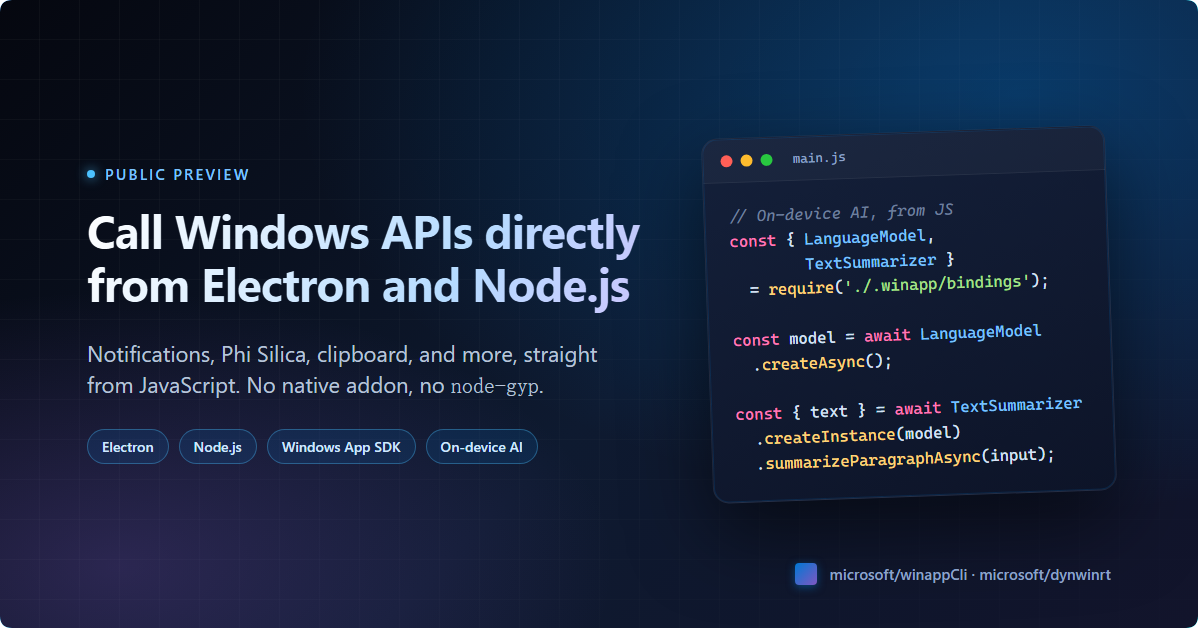
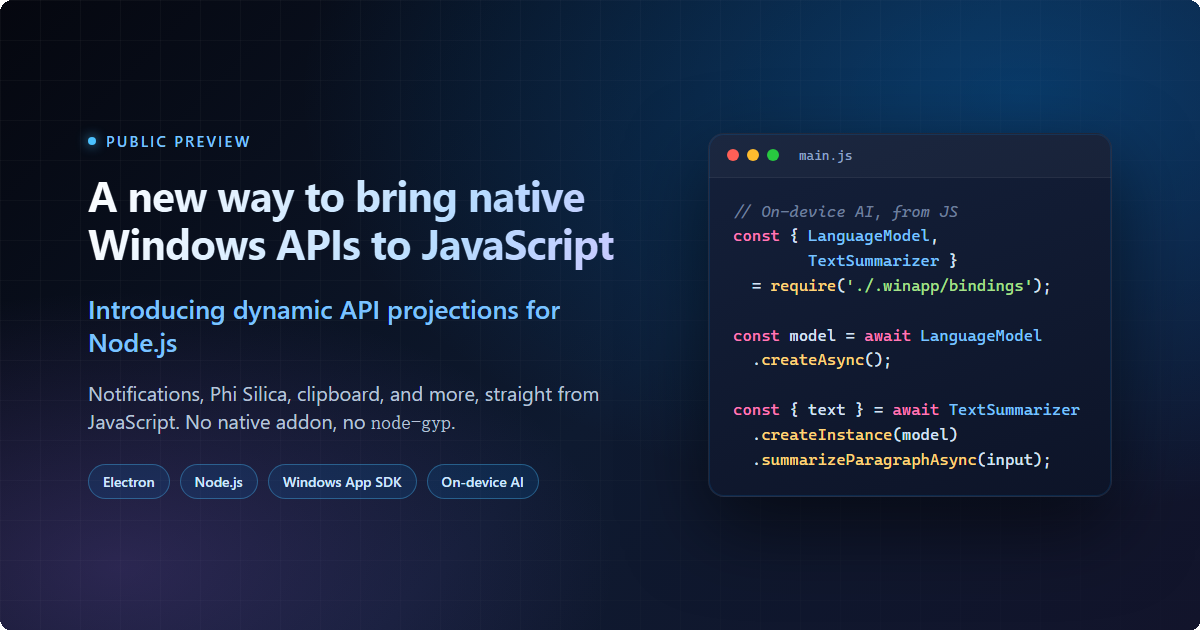
fix comments

diff --git a/src/winapp-npm/src/winapp-commands.ts b/src/winapp-npm/src/winapp-commands.ts
@@ -2,7 +2,7 @@
  * AUTO-GENERATED — DO NOT EDIT
  *
  * Regenerate with:  npm run generate-commands
- * Source schema version: 0.3.3
+ * Source schema version: 0.4.1
  *
  * Programmatic wrappers for all winapp CLI commands.
  * Each function builds the CLI arguments, invokes the native CLI,
@@ -85,7 +85,7 @@ export interface CertGenerateOptions extends CommonOptions {
   output?: string;
   /** Password for the generated PFX file */
   password?: string;
-  /** Publisher name for the generated certificate. If not specified, will be inferred from manifest. */
+  /** Publisher distinguished name (DN) for the generated certificate (e.g., CN=MyCompany or OU=Team, O=Corp, C=US). If not specified, will be inferred from manifest. Bare names are auto-wrapped as CN=<name>. */
   publisher?: string;
   /** Number of days the certificate is valid */
   validDays?: number;
@@ -311,7 +311,7 @@ export interface ManifestGenerateOptions extends CommonOptions {
   logoPath?: string;
   /** Package name (default: folder name) */
   packageName?: string;
-  /** Publisher CN (default: CN=<current user>) */
+  /** Publisher distinguished name (DN) (default: CN=<current user>). Accepts any valid X.500 DN; bare names are auto-wrapped as CN=<name>. */
   publisherName?: string;
   /** Manifest template type: 'packaged' (full MSIX app, default) or 'sparse' (desktop app with package identity for Windows APIs) */
   template?: ManifestTemplates;
@@ -383,7 +383,7 @@ export interface PackageOptions extends CommonOptions {
   name?: string;
   /** Output file name for the generated package (.msix) or bundle (.msixbundle). Defaults to <name>_<version>_<arch>.msix for single packages, or <name>_<version>_<arch1>_<arch2>.msixbundle for bundles. */
   output?: string;
-  /** Publisher name for certificate generation */
+  /** Publisher distinguished name (DN) for certificate generation (e.g., CN=MyCompany). Bare names are auto-wrapped as CN=<name>. */
   publisher?: string;
   /** Bundle Windows App SDK runtime for self-contained deployment */
   selfContained?: boolean;
@@ -592,6 +592,45 @@ export async function uiClick(options: UiClickOptions = {}): Promise<WinappResul
 }
 
 // ---------------------------------------------------------------------------
+// ui drag
+// ---------------------------------------------------------------------------
+
+export interface UiDragOptions extends CommonOptions {
+  /** Start point — an element selector (drags from its center) or app coordinates x,y as reported by 'ui inspect' (e.g. pn-list-d736 or 100,200). */
+  from?: string;
+  /** End point — an element selector (drops at its center) or app coordinates x,y as reported by 'ui inspect' (e.g. pn-target-d746 or 300,400). */
+  to?: string;
+  /** Target app (process name, window title, or PID). Lists windows if ambiguous. */
+  app?: string;
+  /** Milliseconds to dwell at the destination after moving, before releasing (default: 0). Lets drop targets / merge overlays that arm from a sustained hover latch before release. */
+  dwellMs?: number;
+  /** Milliseconds to hold the button down at the start before moving (default: 0). With <from> == <to> (no movement) this performs a press-and-hold / long-press gesture. */
+  holdMs?: number;
+  /** Format output as JSON */
+  json?: boolean;
+  /** Drag with the right mouse button instead of the left button */
+  right?: boolean;
+  /** Target window by HWND (stable handle from list output). Takes precedence over --app. */
+  window?: number;
+}
+
+/**
+ * Press the mouse button at one point, move to another, then release. 'drag <from> <to>', where <from>/<to> are each an element selector (uses the element's center) or app-relative x,y coordinates as reported by 'ui inspect'. Useful for reorder/resize/slider gestures and drag-and-drop. Use --right for a right-button drag, --hold-ms for press-and-hold/long-press, and --dwell-ms to settle on a drop target before releasing.
+ */
+export async function uiDrag(options: UiDragOptions = {}): Promise<WinappResult> {
+  const args: string[] = ['ui', 'drag'];
+  if (options.from) args.push(options.from);
+  if (options.to) args.push(options.to);
+  if (options.app) args.push('--app', options.app);
+  if (options.dwellMs !== undefined) args.push('--dwell-ms', options.dwellMs.toString());
+  if (options.holdMs !== undefined) args.push('--hold-ms', options.holdMs.toString());
+  if (options.json) args.push('--json');
+  if (options.right) args.push('--right');
+  if (options.window !== undefined) args.push('--window', options.window.toString());
+  return execCommand(args, options);
+}
+
+// ---------------------------------------------------------------------------
 // ui focus
 // ---------------------------------------------------------------------------
 
@@ -694,6 +733,36 @@ export async function uiGetValue(options: UiGetValueOptions = {}): Promise<Winap
   const args: string[] = ['ui', 'get-value'];
   if (options.selector) args.push(options.selector);
   if (options.app) args.push('--app', options.app);
+  if (options.json) args.push('--json');
+  if (options.window !== undefined) args.push('--window', options.window.toString());
+  return execCommand(args, options);
+}
+
+// ---------------------------------------------------------------------------
+// ui hover
+// ---------------------------------------------------------------------------
+
+export interface UiHoverOptions extends CommonOptions {
+  /** Semantic slug (e.g., btn-minimize-d1a0) or text to search by name/automationId */
+  selector?: string;
+  /** Target app (process name, window title, or PID). Lists windows if ambiguous. */
+  app?: string;
+  /** Time in milliseconds to wait after hovering for hover effects to appear (default: 800) */
+  dwellTime?: number;
+  /** Format output as JSON */
+  json?: boolean;
+  /** Target window by HWND (stable handle from list output). Takes precedence over --app. */
+  window?: number;
+}
+
+/**
+ * Move the mouse to an element's center to trigger hover effects (tooltips, flyouts, visual states). Uses SendInput for realistic mouse movement and waits for a configurable dwell time.
+ */
+export async function uiHover(options: UiHoverOptions = {}): Promise<WinappResult> {
+  const args: string[] = ['ui', 'hover'];
+  if (options.selector) args.push(options.selector);
+  if (options.app) args.push('--app', options.app);
+  if (options.dwellTime !== undefined) args.push('--dwell-time', options.dwellTime.toString());
   if (options.json) args.push('--json');
   if (options.window !== undefined) args.push('--window', options.window.toString());
   return execCommand(args, options);
@@ -843,12 +912,14 @@ export interface UiScrollOptions extends CommonOptions {
   json?: boolean;
   /** Scroll to position: top, bottom */
   to?: string;
+  /** Rotate the mouse wheel over the element by this many notches (1 = one notch up, -1 = one notch down). Synthesizes real wheel input instead of using ScrollPattern. */
+  wheel?: number;
   /** Target window by HWND (stable handle from list output). Takes precedence over --app. */
   window?: number;
 }
 
 /**
- * Scroll a container element using ScrollPattern. Use --direction to scroll incrementally, or --to to jump to top/bottom.
+ * Scroll a container element using ScrollPattern. Use --direction to scroll incrementally, --to to jump to top/bottom, or --wheel to synthesize mouse-wheel input.
  */
 export async function uiScroll(options: UiScrollOptions = {}): Promise<WinappResult> {
   const args: string[] = ['ui', 'scroll'];
@@ -857,6 +928,7 @@ export async function uiScroll(options: UiScrollOptions = {}): Promise<WinappRes
   if (options.direction) args.push('--direction', options.direction);
   if (options.json) args.push('--json');
   if (options.to) args.push('--to', options.to);
+  if (options.wheel !== undefined) args.push('--wheel', options.wheel.toString());
   if (options.window !== undefined) args.push('--window', options.window.toString());
   return execCommand(args, options);
 }
@@ -914,6 +986,42 @@ export async function uiSearch(options: UiSearchOptions = {}): Promise<WinappRes
   if (options.app) args.push('--app', options.app);
   if (options.json) args.push('--json');
   if (options.max !== undefined) args.push('--max', options.max.toString());
+  if (options.window !== undefined) args.push('--window', options.window.toString());
+  return execCommand(args, options);
+}
+
+// ---------------------------------------------------------------------------
+// ui send-keys
+// ---------------------------------------------------------------------------
+
+export interface UiSendKeysOptions extends CommonOptions {
+  /** Keys to send. Whitespace-separated tokens: named keys (down, enter, tab, esc, f5), modifier combos (ctrl+shift+t, alt+f4), raw virtual keys (vk=0x42), or literal text (hello). Use text=<literal> to type a single value verbatim when it would otherwise be read as a key name or combo (text=enter types "enter"; text=ctrl+a types "ctrl+a"); backslash escapes \s \t \n \r \\ are supported (text=a\s\sb types "a b"). To type the whole argument literally without escaping each token, pass --verbatim instead. Quote multi-token strings, e.g. "ctrl+a delete". */
+  keys?: string;
+  /** Target app (process name, window title, or PID). Lists windows if ambiguous. */
+  app?: string;
+  /** Format output as JSON */
+  json?: boolean;
+  /** Optional selector (slug or text) to focus before sending keys. */
+  target?: string;
+  /** Type the entire keys argument as literal text — no named-key, combo, or vk= interpretation, and exact whitespace preserved. The whole-argument form of the per-token text= escape: --verbatim "down down enter" types the words instead of pressing Down, Down, Enter. */
+  verbatim?: boolean;
+  /** Transport: post-message (default, HWND-targeted, bypasses UIPI; typed text raises TextChanged but not a per-character KeyDown) or send-input (OS-wide; typed text raises a real per-character KeyDown + TextChanged). Named keys and combos raise KeyDown on both, but keyboard accelerators/shortcuts (KeyboardAccelerator, e.g. ctrl+t) only fire via send-input. */
+  via?: string;
+  /** Target window by HWND (stable handle from list output). Takes precedence over --app. */
+  window?: number;
+}
+
+/**
+ * Send synthetic keyboard input to a window. Supports named keys (down, enter, tab), modifier combos (ctrl+shift+t), raw virtual keys (vk=0xNN), and literal text. Use --verbatim to type the whole argument literally, or --target to focus an element first. Two transports via --via: post-message (default, HWND-targeted, bypasses UIPI) or send-input (OS-wide). For per-keystroke KeyDown on typed text (e.g. a WinUI 3/WPF TextBox), use --via send-input.
+ */
+export async function uiSendKeys(options: UiSendKeysOptions = {}): Promise<WinappResult> {
+  const args: string[] = ['ui', 'send-keys'];
+  if (options.keys) args.push(options.keys);
+  if (options.app) args.push('--app', options.app);
+  if (options.json) args.push('--json');
+  if (options.target) args.push('--target', options.target);
+  if (options.verbatim) args.push('--verbatim');
+  if (options.via) args.push('--via', options.via);
   if (options.window !== undefined) args.push('--window', options.window.toString());
   return execCommand(args, options);
 }

diff --git a/assets/blog-banner.html b/assets/blog-banner.html
@@ -2,7 +2,7 @@
 <html>
 <head>
   <meta charset="utf-8">
-  <title>Blog banner: dynamic Windows API bindings for Node.js</title>
+  <title>Blog banner: dynamic Windows API projections for Node.js</title>
   <style>
     :root {
       color-scheme: dark;
@@ -79,8 +79,8 @@
 
     h1 {
       margin: 0;
-      padding-bottom: 8px;
-      font-size: 46px;
+      padding-bottom: 4px;
+      font-size: 42px;
       line-height: 1.15;
       font-weight: 700;
       letter-spacing: -0.02em;
@@ -90,8 +90,17 @@
       color: transparent;
     }
 
+    .lead {
+      font-size: 26px;
+      line-height: 1.3;
+      color: #7cc2ff;
+      font-weight: 600;
+      margin: 0;
+      max-width: 560px;
+    }
+
     .subtitle {
-      font-size: 22px;
+      font-size: 20px;
       line-height: 1.4;
       color: #b8c4d9;
       margin: 0;
@@ -117,7 +126,6 @@
     /* Right side: code card */
     .right {
       width: 420px;
-      transform: rotate(-2deg);
     }
 
     .card {
@@ -172,7 +180,7 @@
     /* Bottom-right corner label */
     .corner {
       position: absolute;
-      right: 88px;
+      left: 692px;
       bottom: 44px;
       display: flex;
       align-items: center;
@@ -196,7 +204,8 @@
     <div class="content">
       <div class="left">
         <span class="eyebrow"><span class="dot"></span>Public preview</span>
-        <h1>Call Windows APIs directly from Electron and Node.js</h1>
+        <h1>A new way to bring native Windows APIs to JavaScript</h1>
+        <p class="lead">Introducing dynamic API projections for Node.js</p>
         <p class="subtitle">Notifications, Phi Silica, clipboard, and more, straight from JavaScript. No native addon, no <code>node-gyp</code>.</p>
         <div class="badges">
           <span class="badge">Electron</span>
@@ -227,11 +236,6 @@
   .<span class="m">summarizeParagraphAsync</span>(input);</pre>
         </div>
       </div>
-    </div>
-
-    <div class="corner">
-      <span class="logo"></span>
-      <span>microsoft/winappCli &middot; microsoft/dynwinrt</span>
     </div>
   </div>
 </body>

diff --git a/src/winapp-npm/src/jsbindings/winmd-policy.ts b/src/winapp-npm/src/jsbindings/winmd-policy.ts
@@ -13,8 +13,9 @@ const DEFAULT_REF_ONLY_PACKAGES = new Set<string>(
 
 // Dropped transitive winmds expose UI/HWND/Composition surfaces that headless Node can't drive.
 // Users can force-emit a dropped winmd via `winapp.jsBindings.additionalWinmds` (explicit opt-in).
-// LOCAL EXPERIMENT: temporarily emit WinUI to explore Tier 1/2 UI support from JS.
-const DEFAULT_SKIPPED_PACKAGES = new Set<string>(['Microsoft.Web.WebView2'].map((p) => p.toLowerCase()));
+const DEFAULT_SKIPPED_PACKAGES = new Set<string>(
+  ['Microsoft.WindowsAppSDK.WinUI', 'Microsoft.Web.WebView2'].map((p) => p.toLowerCase())
+);
 
 // Categorize a single package ID. Precedence:
 //   skip > refOnly > emit (default)

diff --git a/ifdef-blog-js-projections-draft.md b/ifdef-blog-js-projections-draft.md
@@ -1,14 +1,14 @@
-# Call Windows APIs directly from Electron and Node.js
+# A new way to bring native Windows APIs to JavaScript — introducing dynamic API projections for Node.js
 
-![Public preview banner. Title: "Call Windows APIs directly from Electron and Node.js." Tagline: "Notifications, Phi Silica, clipboard, and more, straight from JavaScript. No native addon, no node-gyp." A code snippet on the right shows LanguageModel and TextSummarizer being used from the generated bindings.](./assets/blog-banner.png)
+![Public preview banner. Title: "A new way to bring native Windows APIs to JavaScript — introducing dynamic API projections for Node.js." Tagline: "Notifications, Phi Silica, clipboard, and more, straight from JavaScript. No native addon, no node-gyp." A code snippet on the right shows LanguageModel and TextSummarizer being used from the generated bindings.](./assets/blog-banner.png)
 
 You're building an Electron app for Windows and want to add on-device AI features like text summarization, image description, and OCR, right from Copilot+ PCs. But when you look for how to call these Windows APIs from JavaScript, you hit a wall. The usual answer is to write a C++ or C# native addon just to reach a handful of APIs, and you repeat that work every time you need another one.
 
-We're excited to introduce a public preview of **dynamic Windows API bindings for Node.js**. It lets your Electron app, or a plain Node.js process, call the modern Windows API surface directly from JavaScript or TypeScript. Install one npm package, get typed bindings for the Windows features you want. No native addon, no `node-gyp`, no C++ wrapper to maintain. 🚀
+We're excited to introduce a public preview of **a dynamic Windows Runtime API (WinRT) projection for Node.js**. It lets your Electron app, or a plain Node.js process, call the modern Windows API surface directly from JavaScript or TypeScript. Install one npm package, get typed bindings for the Windows features you want. No native addon, no `node-gyp`, no C++ wrapper to maintain. 🚀
 
 ## What makes this different
 
-Instead of a hand-authored native addon per API, this uses a codegen + shared runtime split:
+The Windows Runtime already has static language projections for [C++/WinRT](https://github.com/microsoft/cppwinrt), [C#/WinRT](https://github.com/microsoft/cswinrt), [`windows-rs`](https://github.com/microsoft/windows-rs), and [PyWinRT](https://github.com/pywinrt/pywinrt). This new projection adds JavaScript to that list, targeting the **Node.js runtime**, with a different implementation approach: instead of a hand-authored native addon per API, it uses a codegen + shared runtime split. That means no per-API C++ to write or maintain, no `node-gyp` toolchain in your project, no Electron-version-specific rebuilds, and new Windows APIs light up as soon as their metadata ships.
 
 - **JavaScript bindings, not a per-class native addon.** Codegen produces `.js` + `.d.ts` for supported Windows API patterns.
 - **One shared prebuilt runtime.** `@microsoft/dynwinrt`, installed from npm, dispatches all the calls at execution time.
@@ -29,7 +29,9 @@ In this post we'll walk through two common Windows API scenarios from JavaScript
 - **Native notifications** with `AppNotificationBuilder` / `AppNotificationManager`
 - **Phi Silica on-device AI** with `LanguageModel` / `TextSummarizer` (Copilot+ PCs)
 
-Both are written entirely in JavaScript.
+These are just entry points. The same bindings reach a much broader surface of Windows Runtime APIs from JavaScript, including the full on-device AI stack shipped on Copilot+ PCs (text generation, summarization, rewriting, text-to-table, image description, text recognition, image scaling, object extraction, and object removal), file pickers and storage (`FileOpenPicker`, `StorageFile`), image decoding (`BitmapDecoder`), rich clipboard (`Clipboard`, `HtmlFormatHelper`), and custom model inference via `WinML`. If it's a non-UI WinRT type described in `.winmd` metadata, you can reach it. That includes your own WinRT components. Just extend the `winapp.jsBindings` config to generate bindings for any additional namespaces or `.winmd` files.
+
+Both walkthroughs are written entirely in JavaScript.
 
 ## What's in the box
 
@@ -52,11 +54,15 @@ npm install --save-dev @microsoft/winappcli
 npx winapp init . --use-defaults --add-js-bindings
 ```
 
-The WinApp CLI sets up the manifest and SDKs, adds `@microsoft/dynwinrt` + `@microsoft/dynwinrt-codegen` to your `package.json`, and writes typed bindings to `.winapp/bindings/`. Then run this once before starting Electron:
+The WinApp CLI sets up the manifest and SDKs, adds `@microsoft/dynwinrt` + `@microsoft/dynwinrt-codegen` to your `package.json`, and writes typed bindings to `.winapp/bindings/`. It also writes a `winapp.jsBindings` config block to your `package.json` where you can extend the generated surface with additional namespaces or `.winmd` files. See the [file picker guide](https://github.com/microsoft/winappCli/blob/main/docs/guides/electron/js-file-picker.md) for a detailed configuration example.
+
+Both walkthroughs below (`AppNotificationManager` and Phi Silica) use APIs that require package identity. To unblock those APIs during development, grant your Electron dev build a temporary identity:
 
 ```bash
 npx winapp node add-electron-debug-identity
 ```
+
+Rerun `npx winapp node add-electron-debug-identity` whenever the manifest, exe path, or identity fields change. For APIs that don't require package identity, you can start Electron normally with `npm start` and skip this step. See the [debug identity guide](https://github.com/microsoft/winappCli/blob/main/docs/guides/electron/setup.md#step-5-understanding-debug-identity) for the full model, including which API categories require identity.
 
 ### Show a rich Windows notification
 
@@ -85,7 +91,7 @@ AppNotificationManager.default_.show(
     .buildNotification()
 );
 ```
-Run it, and Windows fires the same native toast you'd get from a C#/C++ app, including the progress bar:
+Run the app, and Windows fires the same native toast you'd get from a C#/C++ app, including the progress bar:
 
 ![Windows toast notification from an Electron app titled "test-electron-app", reading "Windows AI task running" and showing a 65% progress bar labeled "Processing with Windows AI."](./assets/electron-toast-hello-from-electron.png)
 
